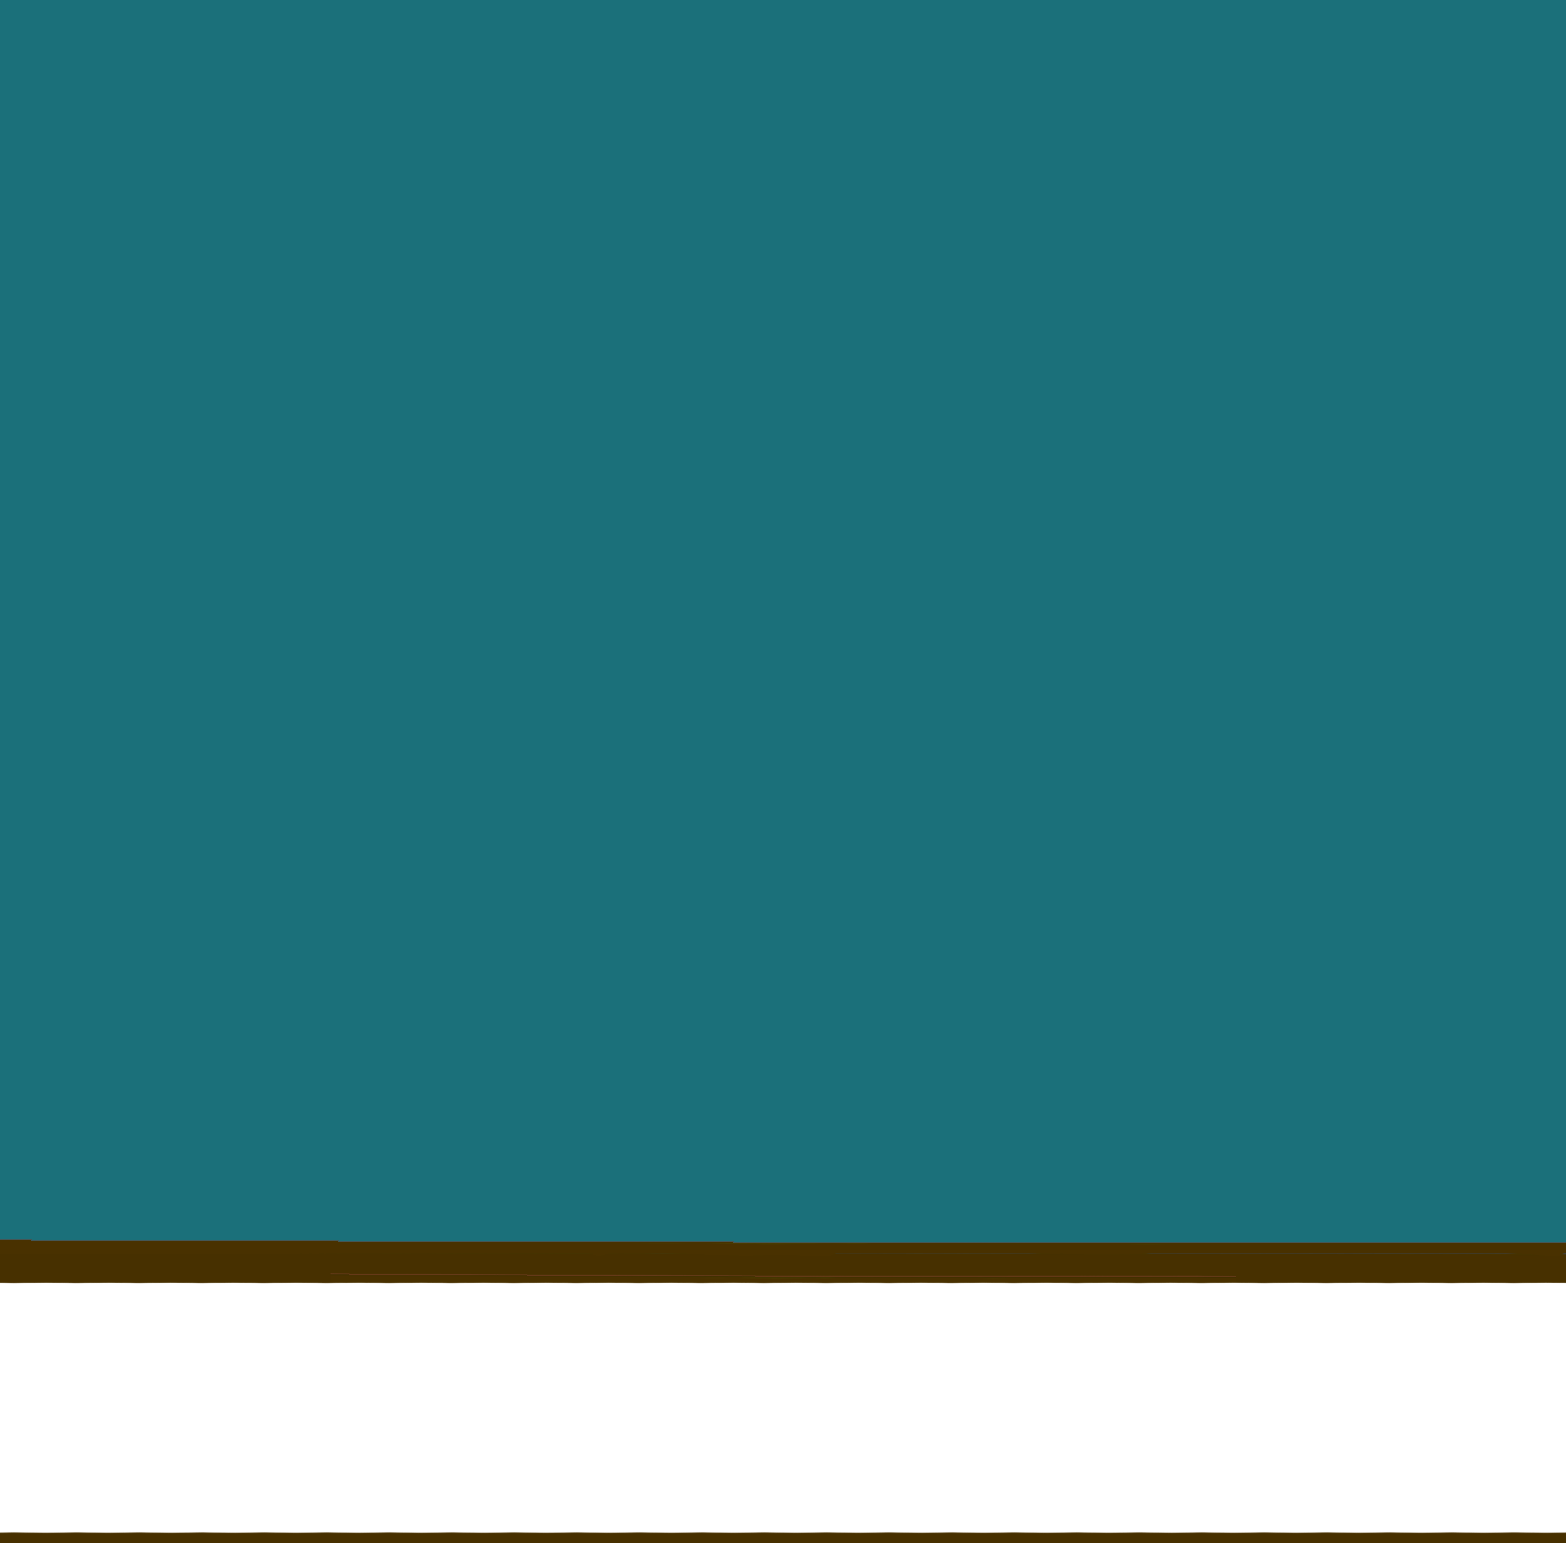
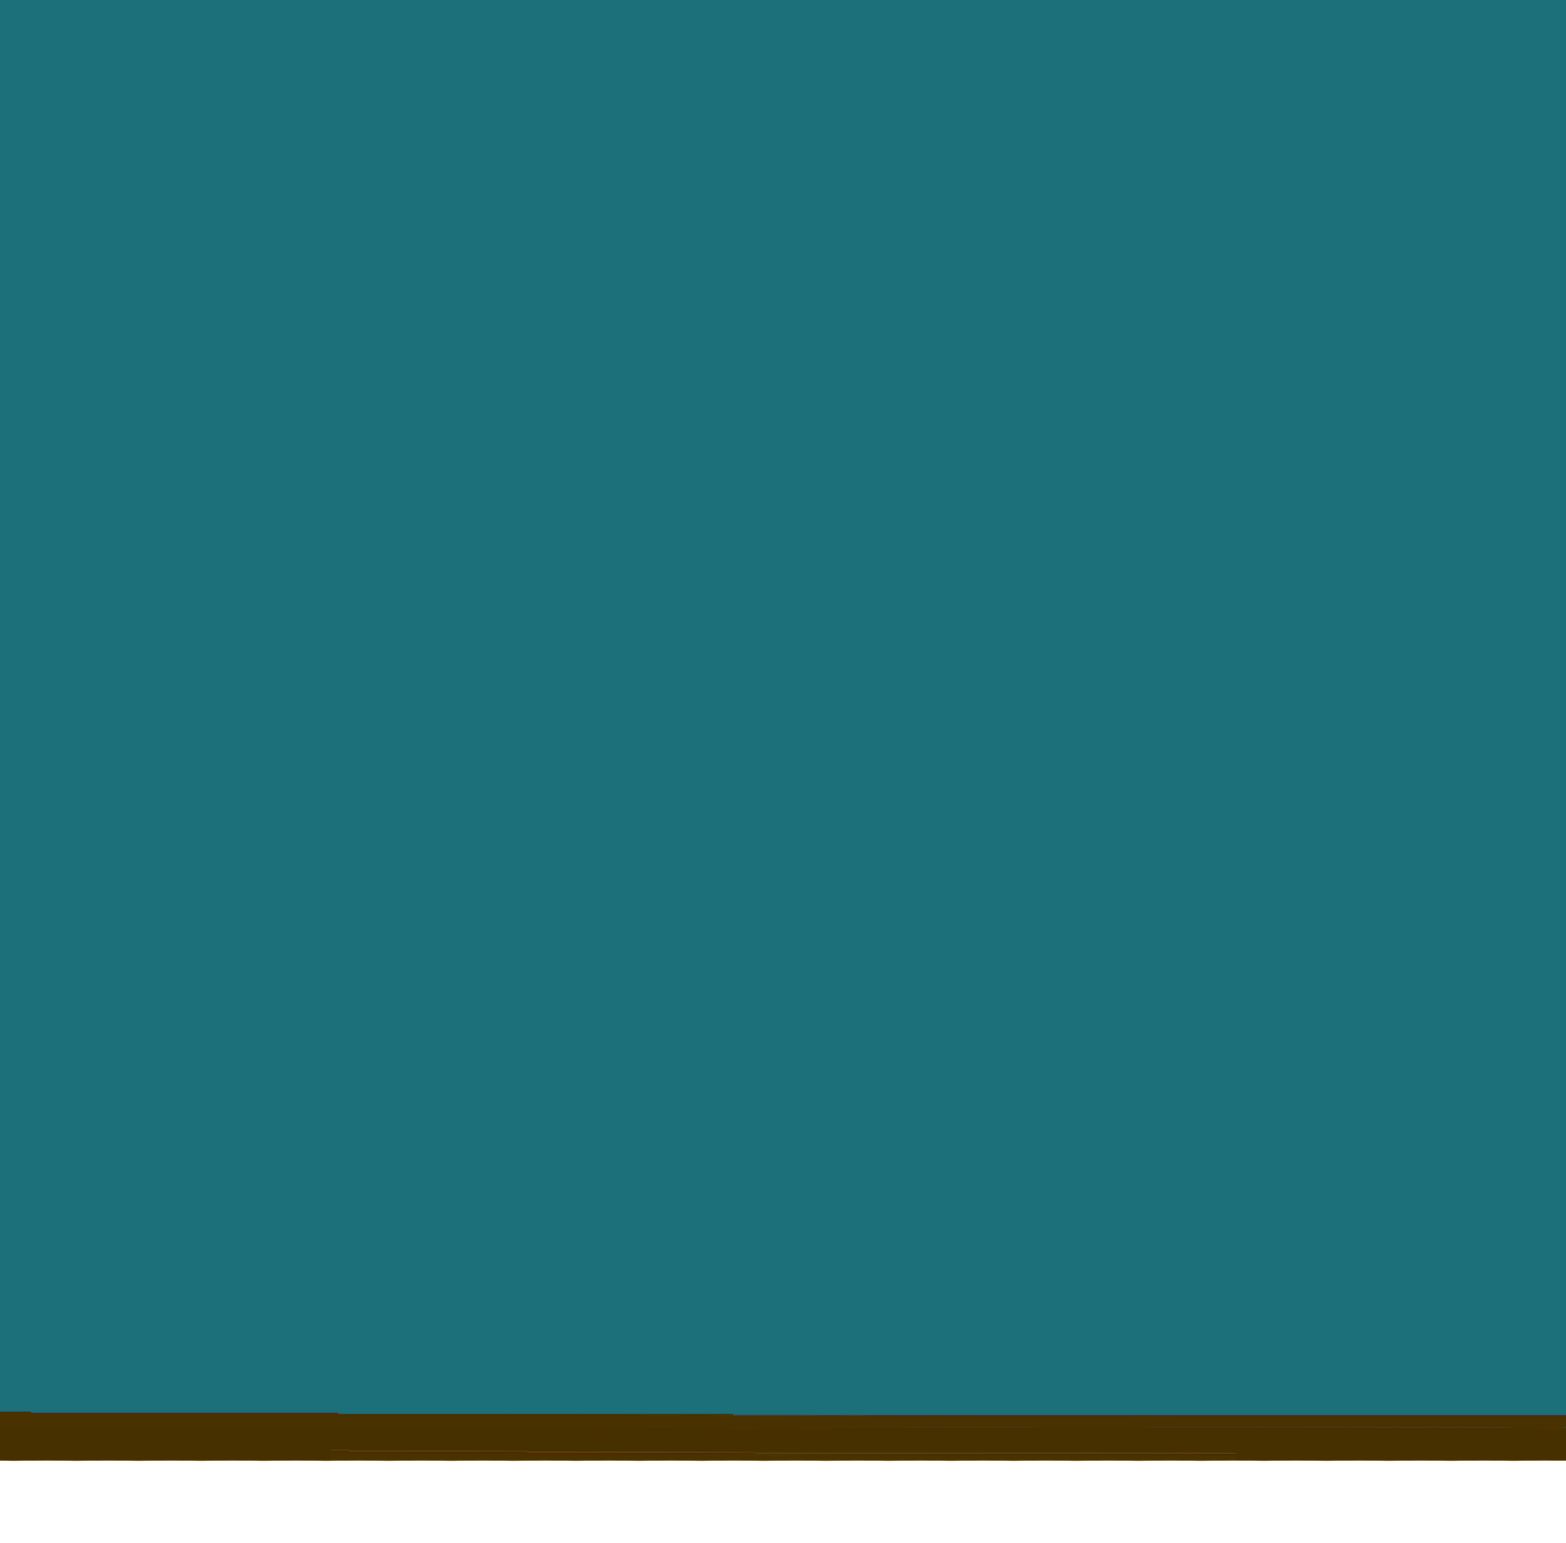
floor减少
更自然一点

Changed region(s): [[0.0, 0.7777, 1.0, 0.9644], [0.0, 0.9955, 1.0, 1.0]]

diff --git a/css/style2.css b/css/style2.css
@@ -57,7 +57,7 @@ html ,body{
     top: 35%
 }
 .three {
-    width: 120vw;
+    width: 140vw;
     background-image: url(../images/wall3.png);
     background-size:cover;
     z-index:999;
@@ -73,7 +73,7 @@ html ,body{
     background-image: url(../images/wall4.png);
     background-size:cover;
     z-index:997;
-    left: 235vw;
+    left: 260vw;
 }
 .ifour {
     background-image: url(../images/img4.jpg);
@@ -86,7 +86,7 @@ html ,body{
     background-image: url(../images/wall5.png);
     background-size:cover;
     z-index:998;
-    left: 490vw;
+    left: 510vw;
 }
 .ifive {
     background-image: url(../images/img5.jpg);
@@ -179,43 +179,43 @@ html ,body{
 }
 .pone {
     z-index: 1000;
-    bottom: 18vh;
+    bottom: 2vh;
     right: 0vw;
     width: 30vw;
 }
 .ptwo {
     z-index: 998;
-    bottom: 26vh;
+    bottom: 16vh;
     left: 50vw;
     width: 25vw;
 }
 .pthree {
     z-index: 999;
-    bottom: 19vh;
+    bottom: 8vh;
     right: -20vw;
     width: 25vw;
 }
 .pfour {
     z-index: 999;
-    bottom: 33vh;
+    bottom: 23vh;
     right: 0vw;
-    width: 25vw;
+    width: 23vw;
 }
 .pfive {
     z-index: 999;
-    bottom: 20vh;
+    bottom: 10vh;
     right: 0vw;
     width: 25vw;
 }
 .psix {
     z-index: 996;
-    bottom: 16vh;
+    bottom: 3vh;
     right: -25vw;
     width: 25vw;
 }
 .pseven {
     z-index: 996;
-    bottom: 16vh;
+    bottom: 3vh;
     right: -200vw;
     width: 25vw;
 }
